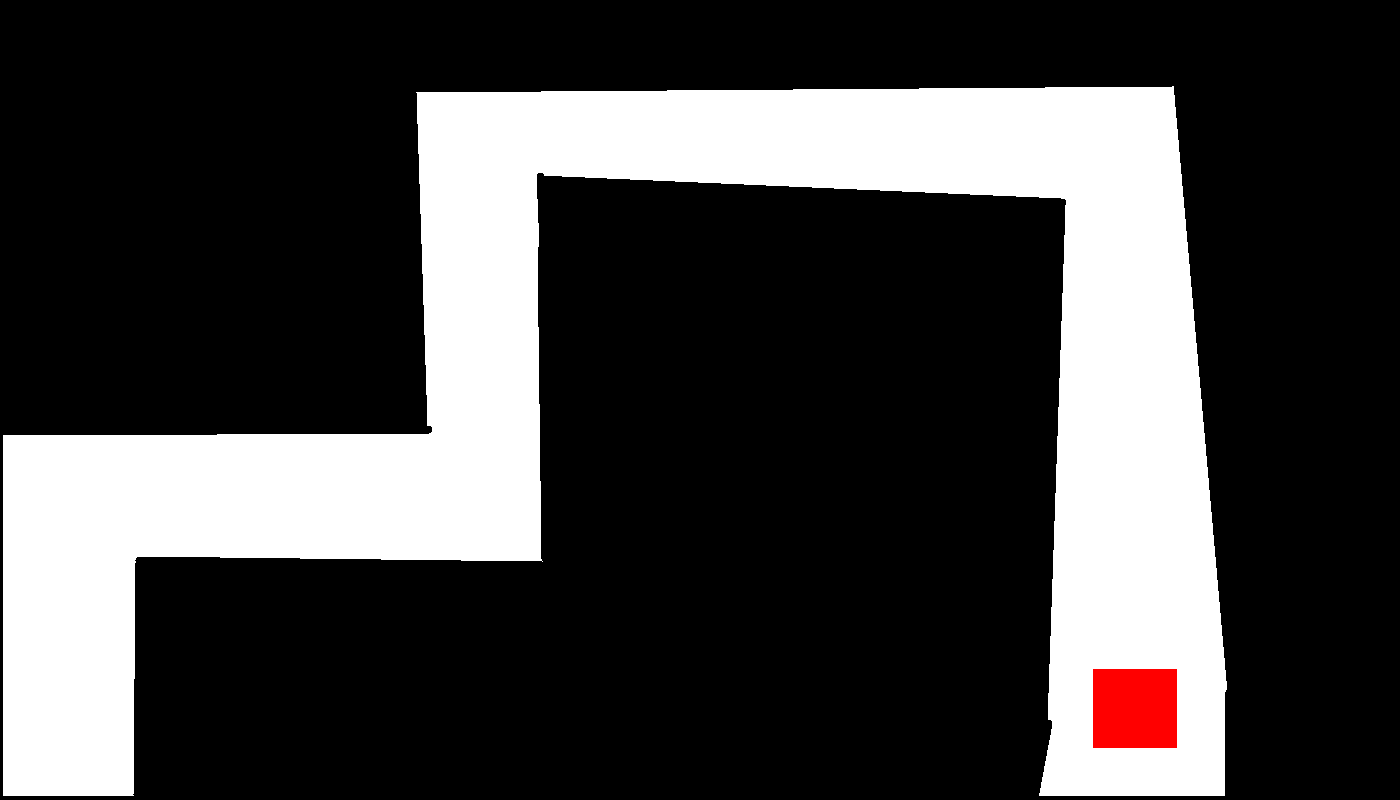
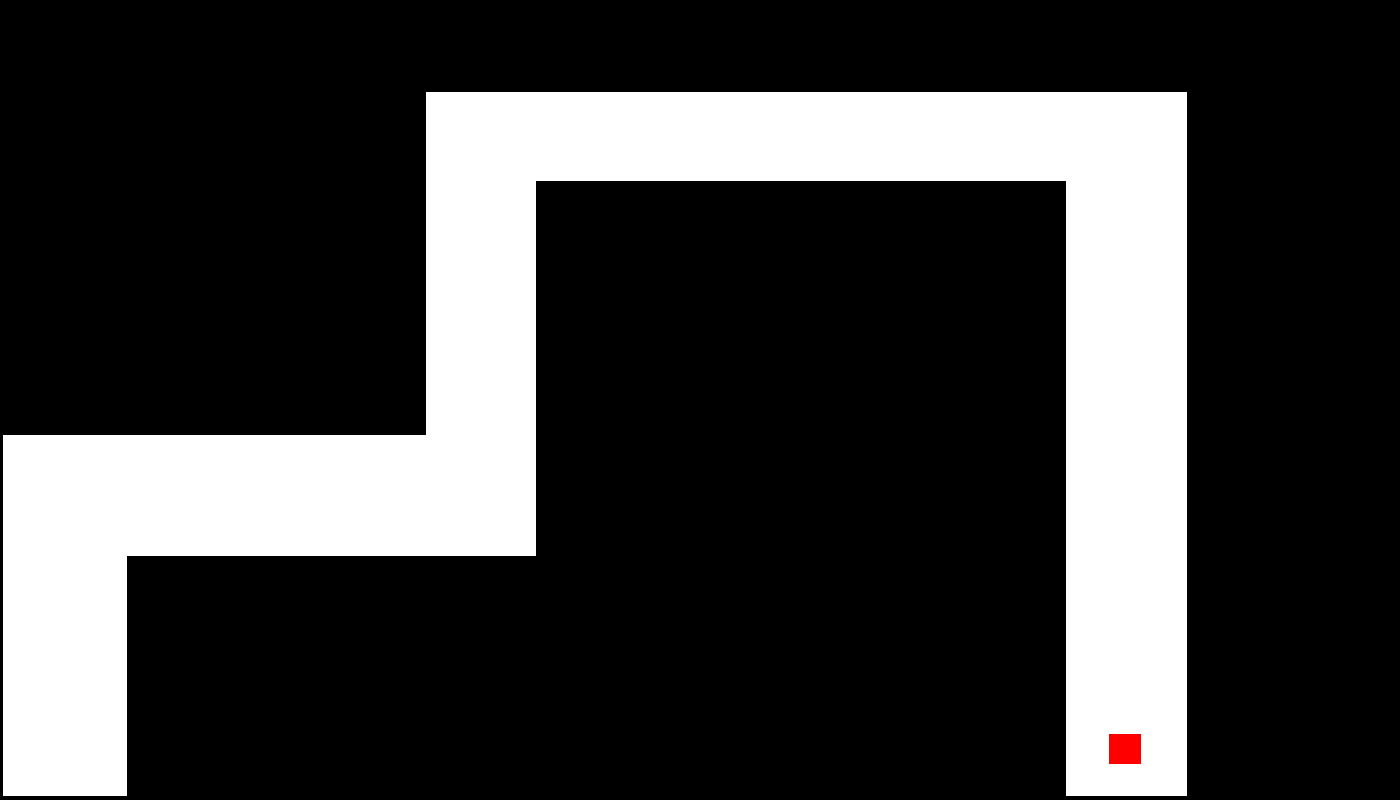
getting color of maze image in the center of given viewport

diff --git a/maze.html b/maze.html
@@ -101,14 +101,19 @@
 		indexBuffer.numItems = scene.indices.length;
 
 		textureBuffer = gl.createBuffer();
-		textureCoords = scene.textureCoords;
+		textureCoords = new Float32Array(scene.textureCoords);
 		move();
 		textureBuffer.itemSize = 2;
 		textureBuffer.numItems = scene.textureCoords.length;
 	}
 
 	var textureCoords;
+
+	// tohle číslo říká, kde na textuře mám pravý horní roh
+	// 0, 0 => 0, 0 of the image is in the top left corner
 	var positionX = -0.1, positionY = 0.8;
+	//var positionX = 0, positionY = 0;
+	// how big is the "window"
 	const VIEWPORT_WIDTH = 0.3, VIEWPORT_HEIGHT = 0.3;
 
 	function moveX(diff) {
@@ -133,7 +138,7 @@
 		textureCoords[6] = positionX + VIEWPORT_WIDTH;
 
 		gl.bindBuffer(gl.ARRAY_BUFFER, textureBuffer);
-		gl.bufferData(gl.ARRAY_BUFFER, new Float32Array(textureCoords), gl.STATIC_DRAW);
+		gl.bufferData(gl.ARRAY_BUFFER, textureCoords, gl.STATIC_DRAW);
 	}
 
 	/**
@@ -301,8 +306,6 @@
 
 		if (data.sequence > lastReceivedMarkerSocketSequence) {
 			lastReceivedMarkerSocketSequence = data.sequence;
-			//console.log(Math.round(data.max), Math.round(data.x), Math.round(data.y));
-			//console.log(data.max, lastMarkerX, data.x, lastMarkerY, data.y);
 
 			if (data.count > 0) {
 				if (!toBeRestarted) {
@@ -323,48 +326,25 @@
 		}
 	}
 
-	const baseX = 200;
-	const baseY = 100;
-	const stoneSize = 100;
-	const WIDTH = 700;
-	const HEIGHT = 350;
-
 	function translate(x, y, divisor) {
-		console.log(x);
 		moveX(x/100000);
 		moveY(y/100000);
 
-		return;
-		y = -y;
-		let base = 100 / divisor;
+		let centerX = Math.round((positionX + VIEWPORT_WIDTH / 2) * readCanvas.width);
+		let centerY = Math.round((positionY + VIEWPORT_HEIGHT / 2) * readCanvas.height);
 
-		//console.log(x, y);
-		let x1 = editNumber(x, base, baseX);
-		let y1 = HEIGHT*2 - editNumber(y, base, baseY);
+		let color = getColor(centerX, centerY);
+		//console.log(centerY, centerX, color);
 
-		let topLeft = getColor(x1, y1);
-		let topRight = getColor(x1 + stoneSize, y1);
-		let center = getColor(x1 + stoneSize/2, y1 + stoneSize/2);
-		let bottomLeft = getColor(x1, y1 + stoneSize);
-		let bottomRight = getColor(x1 + stoneSize, y1 + stoneSize);
+		let rollback = color[0] === 0;// && color[1] === 0 && color[2] === 0;
+		let won = color[0] === 255 && color[1] === 0 && color[2] === 0;
 
-		//console.log(x1, y1);
-		//console.log(topLeft, topRight);
-		//console.log(bottomLeft, bottomRight);
-
-		//console.log(WIDTH, Math.round(baseX/base), Math.round(x));
-		x = Math2.clamp(x, -baseX/base, (baseX/base) * 5.5);
-		y = Math2.clamp(y, -baseY/base, (baseY/base) * 6);
-
-		translation = new Mat4Transl(x/divisor, 0, y/divisor);
-	}
-
-	function editNumber(num, divisor, base) {
-		num *= divisor;
-
-		num += base;
-
-		return Math.round(num);
+		if (rollback) {
+			moveX(-x/100000);
+			moveY(-y/100000);
+		} else if (won) {
+			console.log("WIN");
+		}
 	}
 
 	function doRotation(data) {
